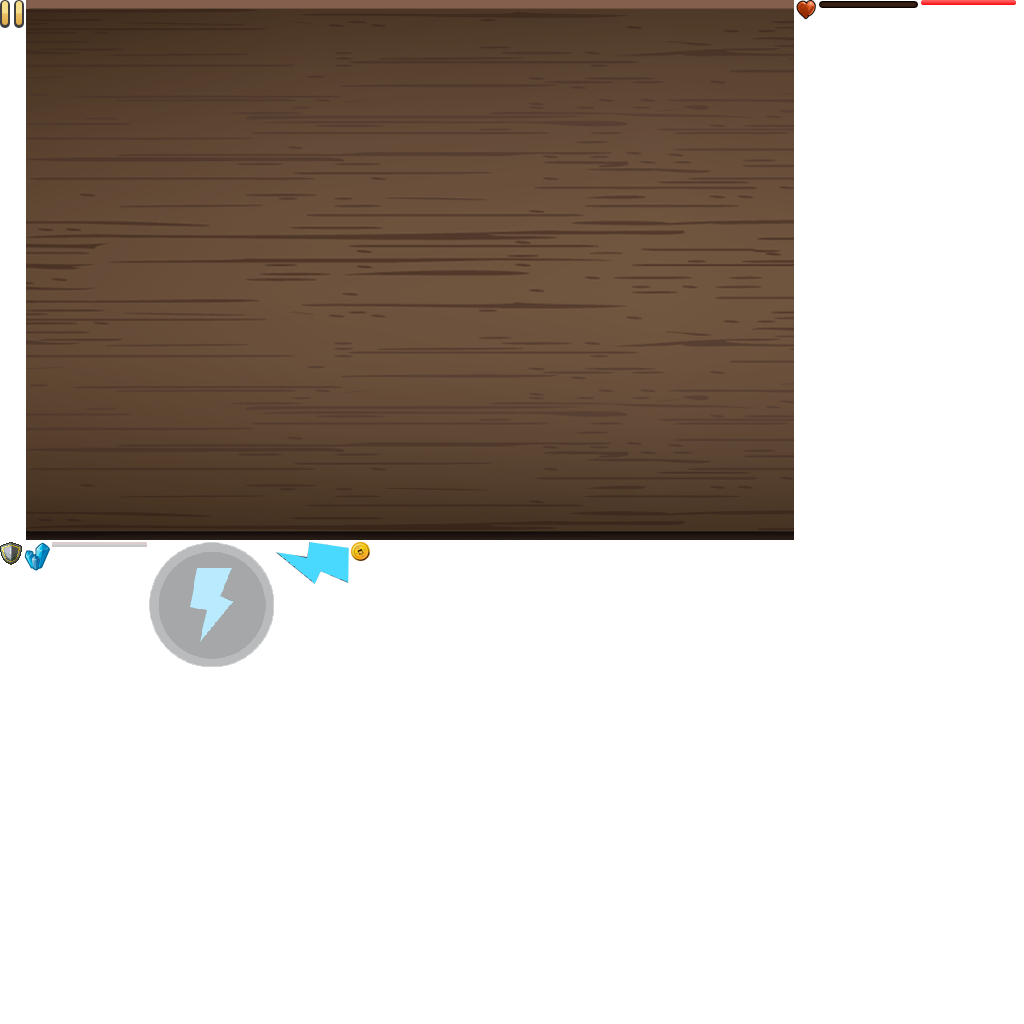
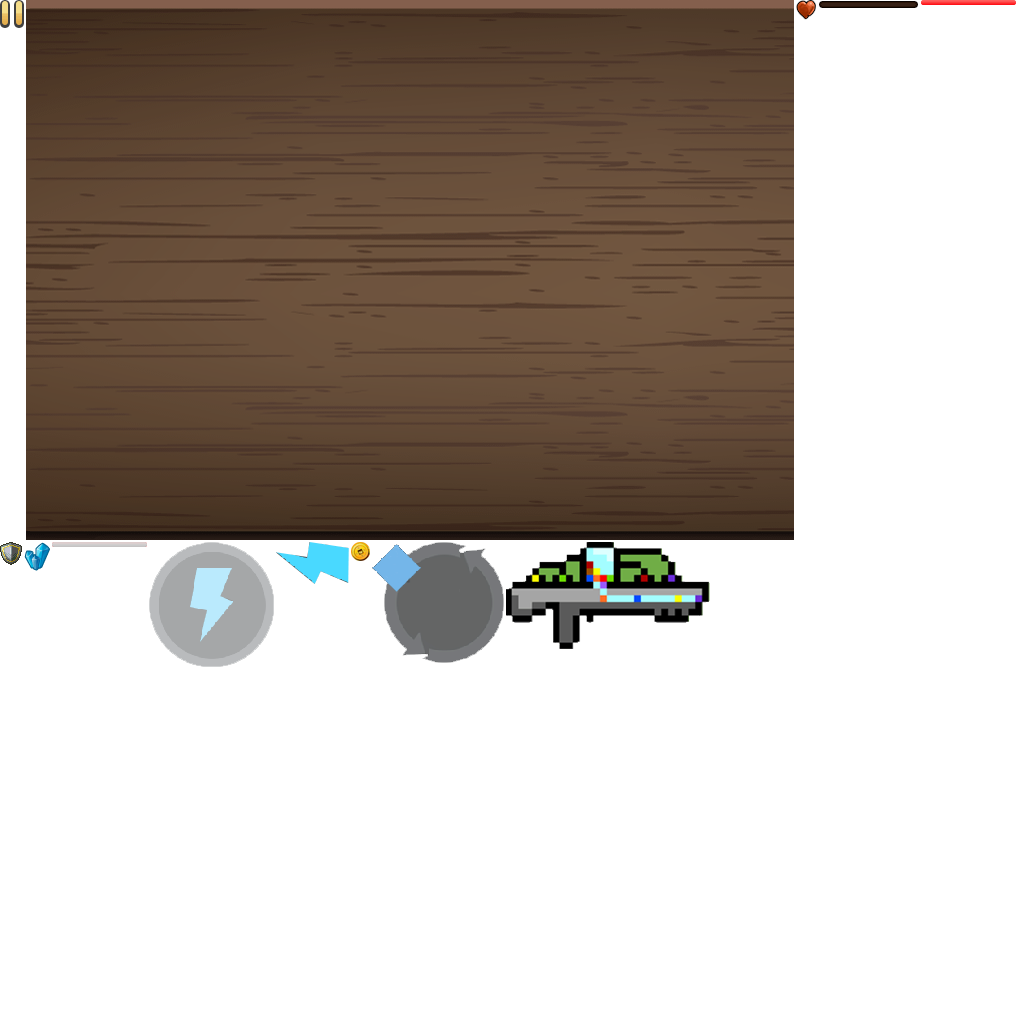
change resources

Changed region(s): [[0.3438, 0.5312, 0.7188, 0.6562]]

diff --git a/Classes/Entity/Item/Player/Player.h b/Classes/Entity/Item/Player/Player.h
@@ -1,4 +1,4 @@
-#pragma once
+#pragma once
 #include <algorithm>
 #include <vector>
 #include <string>
@@ -101,6 +101,7 @@ public:
 	std::vector<Bullet*> m_bullet;
 	bool isAttackingWithCloseWeapon()const;
 	void resetWeaponPosition(bool status/*true stands for left and false stands for right*/);
+	CloseWeapon* getCloseWeapon()const;
 protected:
 	AdventureMapLayer* m_map;
 
